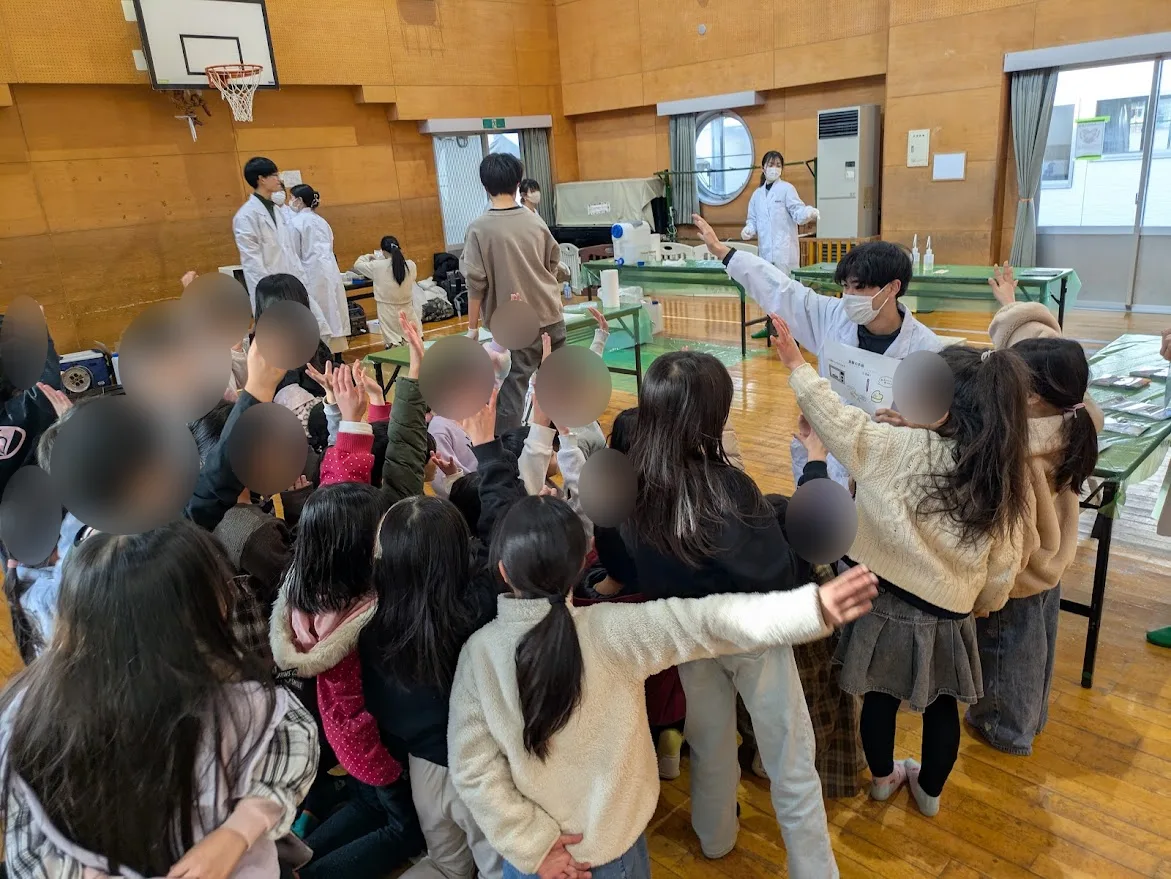
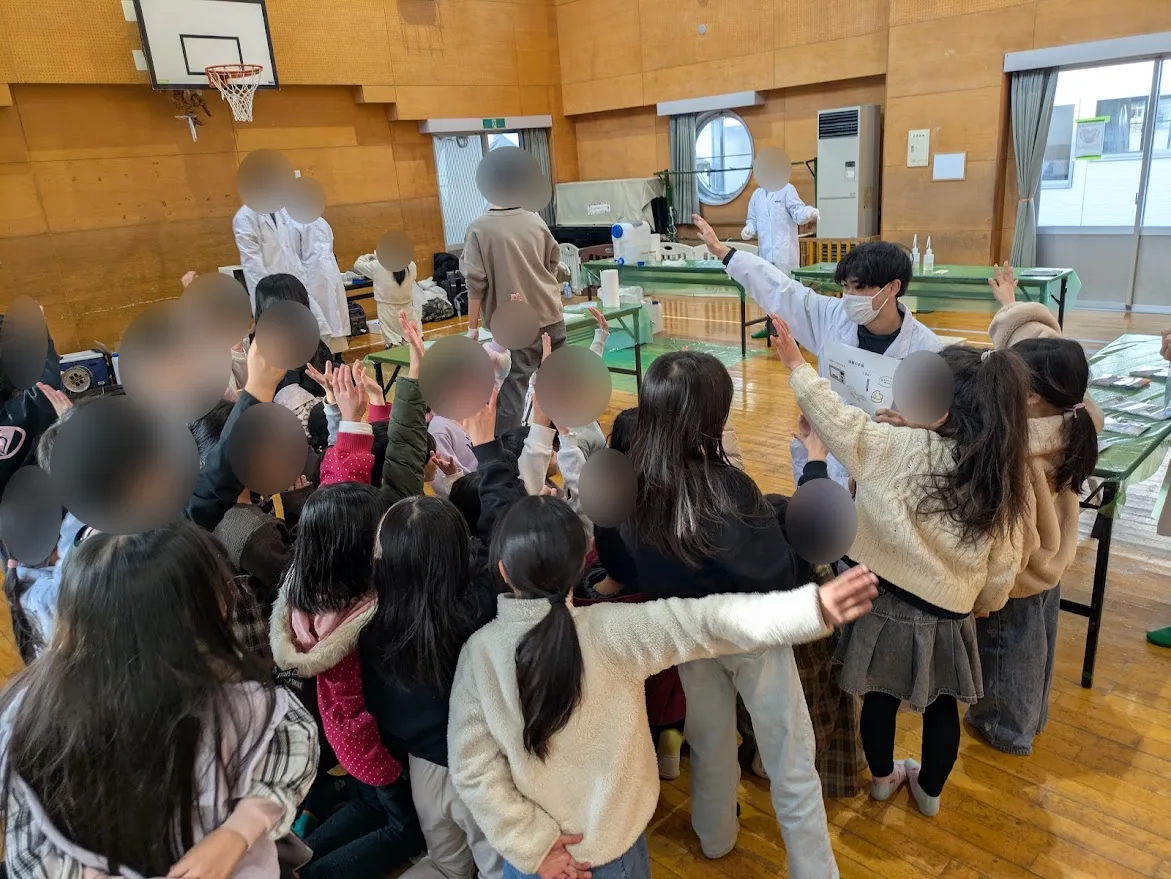
Milcraft photo: blur everyone except Uehara
The staff in lab coats and the others in the background are now
blurred too; only Uehara (raising his hand) is left clear. The work
page, work.md and alt text say so.

Claude-Session: https://claude.ai/code/session_01QEffCajgHTwxjFGVMfpu5V

diff --git a/works/milcraft/index.html b/works/milcraft/index.html
@@ -64,7 +64,7 @@
 
   <section class="page-body">
     <article class="container article">
-      <figure class="article__cover"><img src="cover.webp" alt="ミルクラフトの活動の様子（子どもたちの顔はぼかしています）"></figure>
+      <figure class="article__cover"><img src="cover.webp" alt="ミルクラフトの活動の様子（手を挙げている上原以外の顔はぼかしています）"></figure>
       <dl class="work-facts">
         <div><dt data-en="Members">関わった人</dt><dd><a class="person" href="../../members/uehara/"><img src="../../assets/people/uehara.webp" alt="">上原 貫太</a><span class="person person--other">m3lab のメンバー</span></dd></div>
         <div><dt data-en="When">時期</dt><dd>令和7年度</dd></div>
@@ -73,7 +73,7 @@
       <div class="prose">
 <p>ミルクラフトは m3lab のプロジェクトです。トワツからは、代表の上原が m3lab の一員としてリーダーを務めました。</p>
 <p>詳しい内容は準備中です。</p>
-<p>写真に写っている子どもたちの顔は、ぼかしています。</p>
+<p>写真は、手を挙げている上原以外の顔をぼかしています。</p>
       </div>
       <nav class="article__foot">
         <a class="btn btn--ghost" href="../" data-en="Back to the exhibition">トワツ作品展示会へ戻る</a>

diff --git a/index.html b/index.html
@@ -159,7 +159,7 @@
         </li>
         <li class="biz__item reveal">
           <div class="biz__media">
-            <img src="works/milcraft/cover.webp" alt="ミルクラフトの活動の様子（子どもたちの顔はぼかしています）" width="1171" height="879" loading="lazy">
+            <img src="works/milcraft/cover.webp" alt="ミルクラフトの活動の様子（手を挙げている上原以外の顔はぼかしています）" width="1171" height="879" loading="lazy">
           </div>
           <div class="biz__body">
             <h3 class="biz__title" data-en="Projects with the local community">地域とのものづくり</h3>

diff --git a/README.md b/README.md
@@ -37,7 +37,7 @@ AIで作ったサイトによく出る型のうち、次のものは使ってい
 写真が必要な場所には、グレーの□の枠に「写真のお願い」として、どんな写真が必要かを書いています。
 写真が用意できたら、`<figure class="ph" …>…</figure>` をまるごと `<img src="…" alt="…">` に置き換えてください。
 
-トップのいちばん上と、私たち（/about/）のいちばん上は、校門の前の3人の写真（`assets/photos/team-gate.webp`、横長に切った `team-gate-wide.webp`）に差し替え済みです。活動内容 03 は、子どもたちの顔をぼかしたミルクラフトの写真（`works/milcraft/cover.webp`）です。ミルクラフトは m3lab のプロジェクトで、トワツからは上原だけが参加しているので、載せる場所ではそのことを書いています。活動内容 02 は、AI甲子園での発表の写真（`works/wasufinder/cover.webp`。WasuFinder の作品カードと作品ページにも使用）に差し替え済みです。
+トップのいちばん上と、私たち（/about/）のいちばん上は、校門の前の3人の写真（`assets/photos/team-gate.webp`、横長に切った `team-gate-wide.webp`）に差し替え済みです。活動内容 03 は、上原以外の全員の顔をぼかしたミルクラフトの写真（`works/milcraft/cover.webp`）です。ミルクラフトは m3lab のプロジェクトで、トワツからは上原だけが参加しているので、載せる場所ではそのことを書いています。活動内容 02 は、AI甲子園での発表の写真（`works/wasufinder/cover.webp`。WasuFinder の作品カードと作品ページにも使用）に差し替え済みです。
 
 | 場所 | 必要な写真 |
 |---|---|

diff --git a/works/milcraft/work.md b/works/milcraft/work.md
@@ -13,4 +13,4 @@ cover: "cover.webp"
 
 詳しい内容は準備中です。
 
-写真に写っている子どもたちの顔は、ぼかしています。
+写真は、手を挙げている上原以外の顔をぼかしています。
